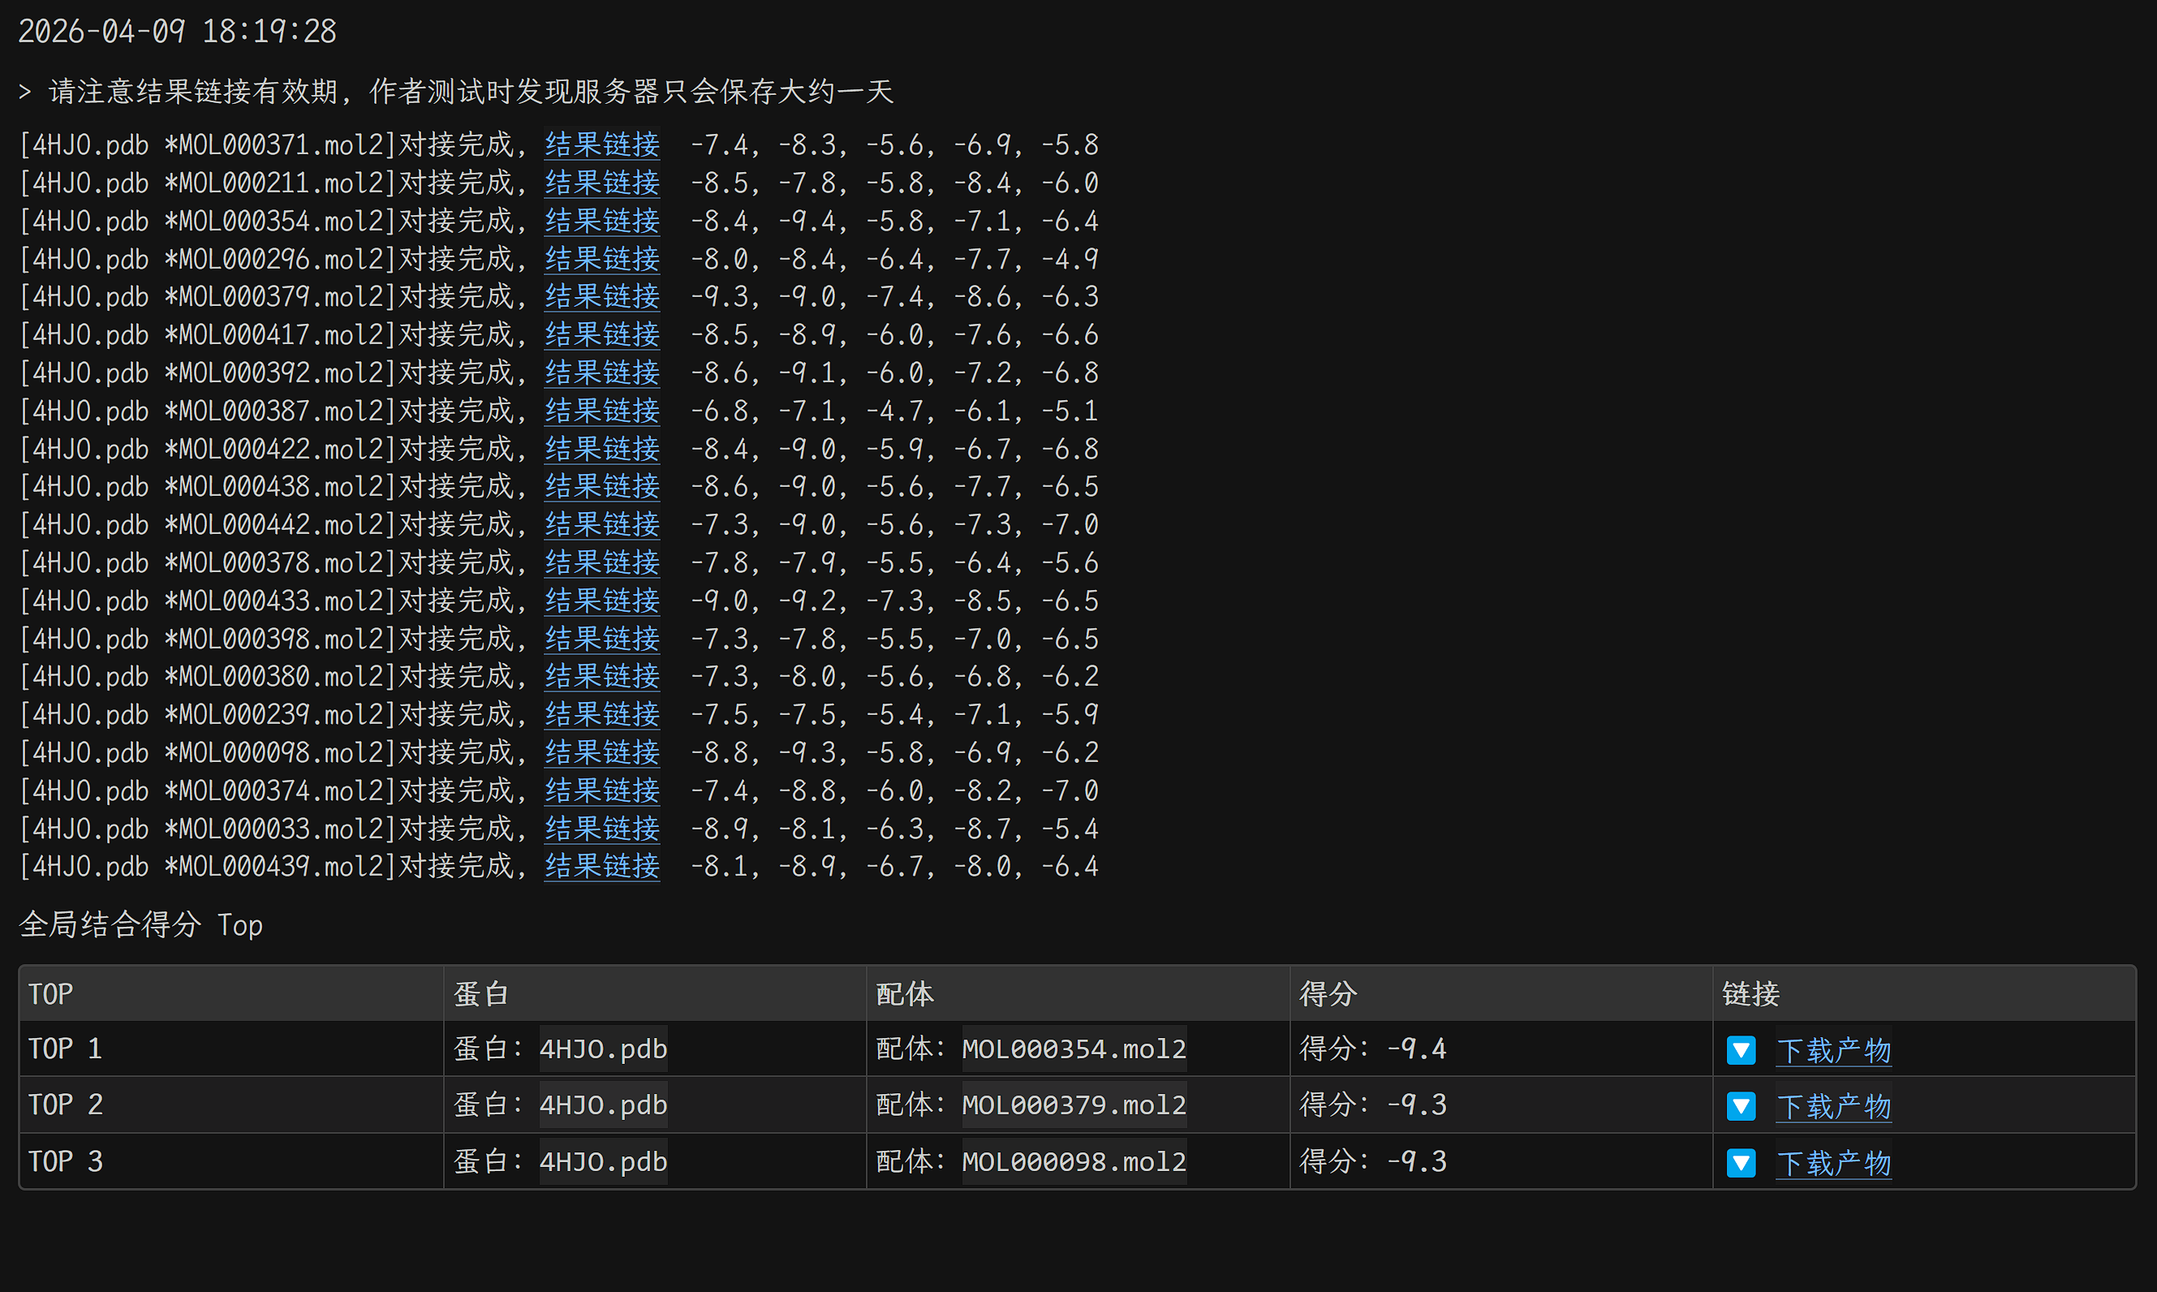
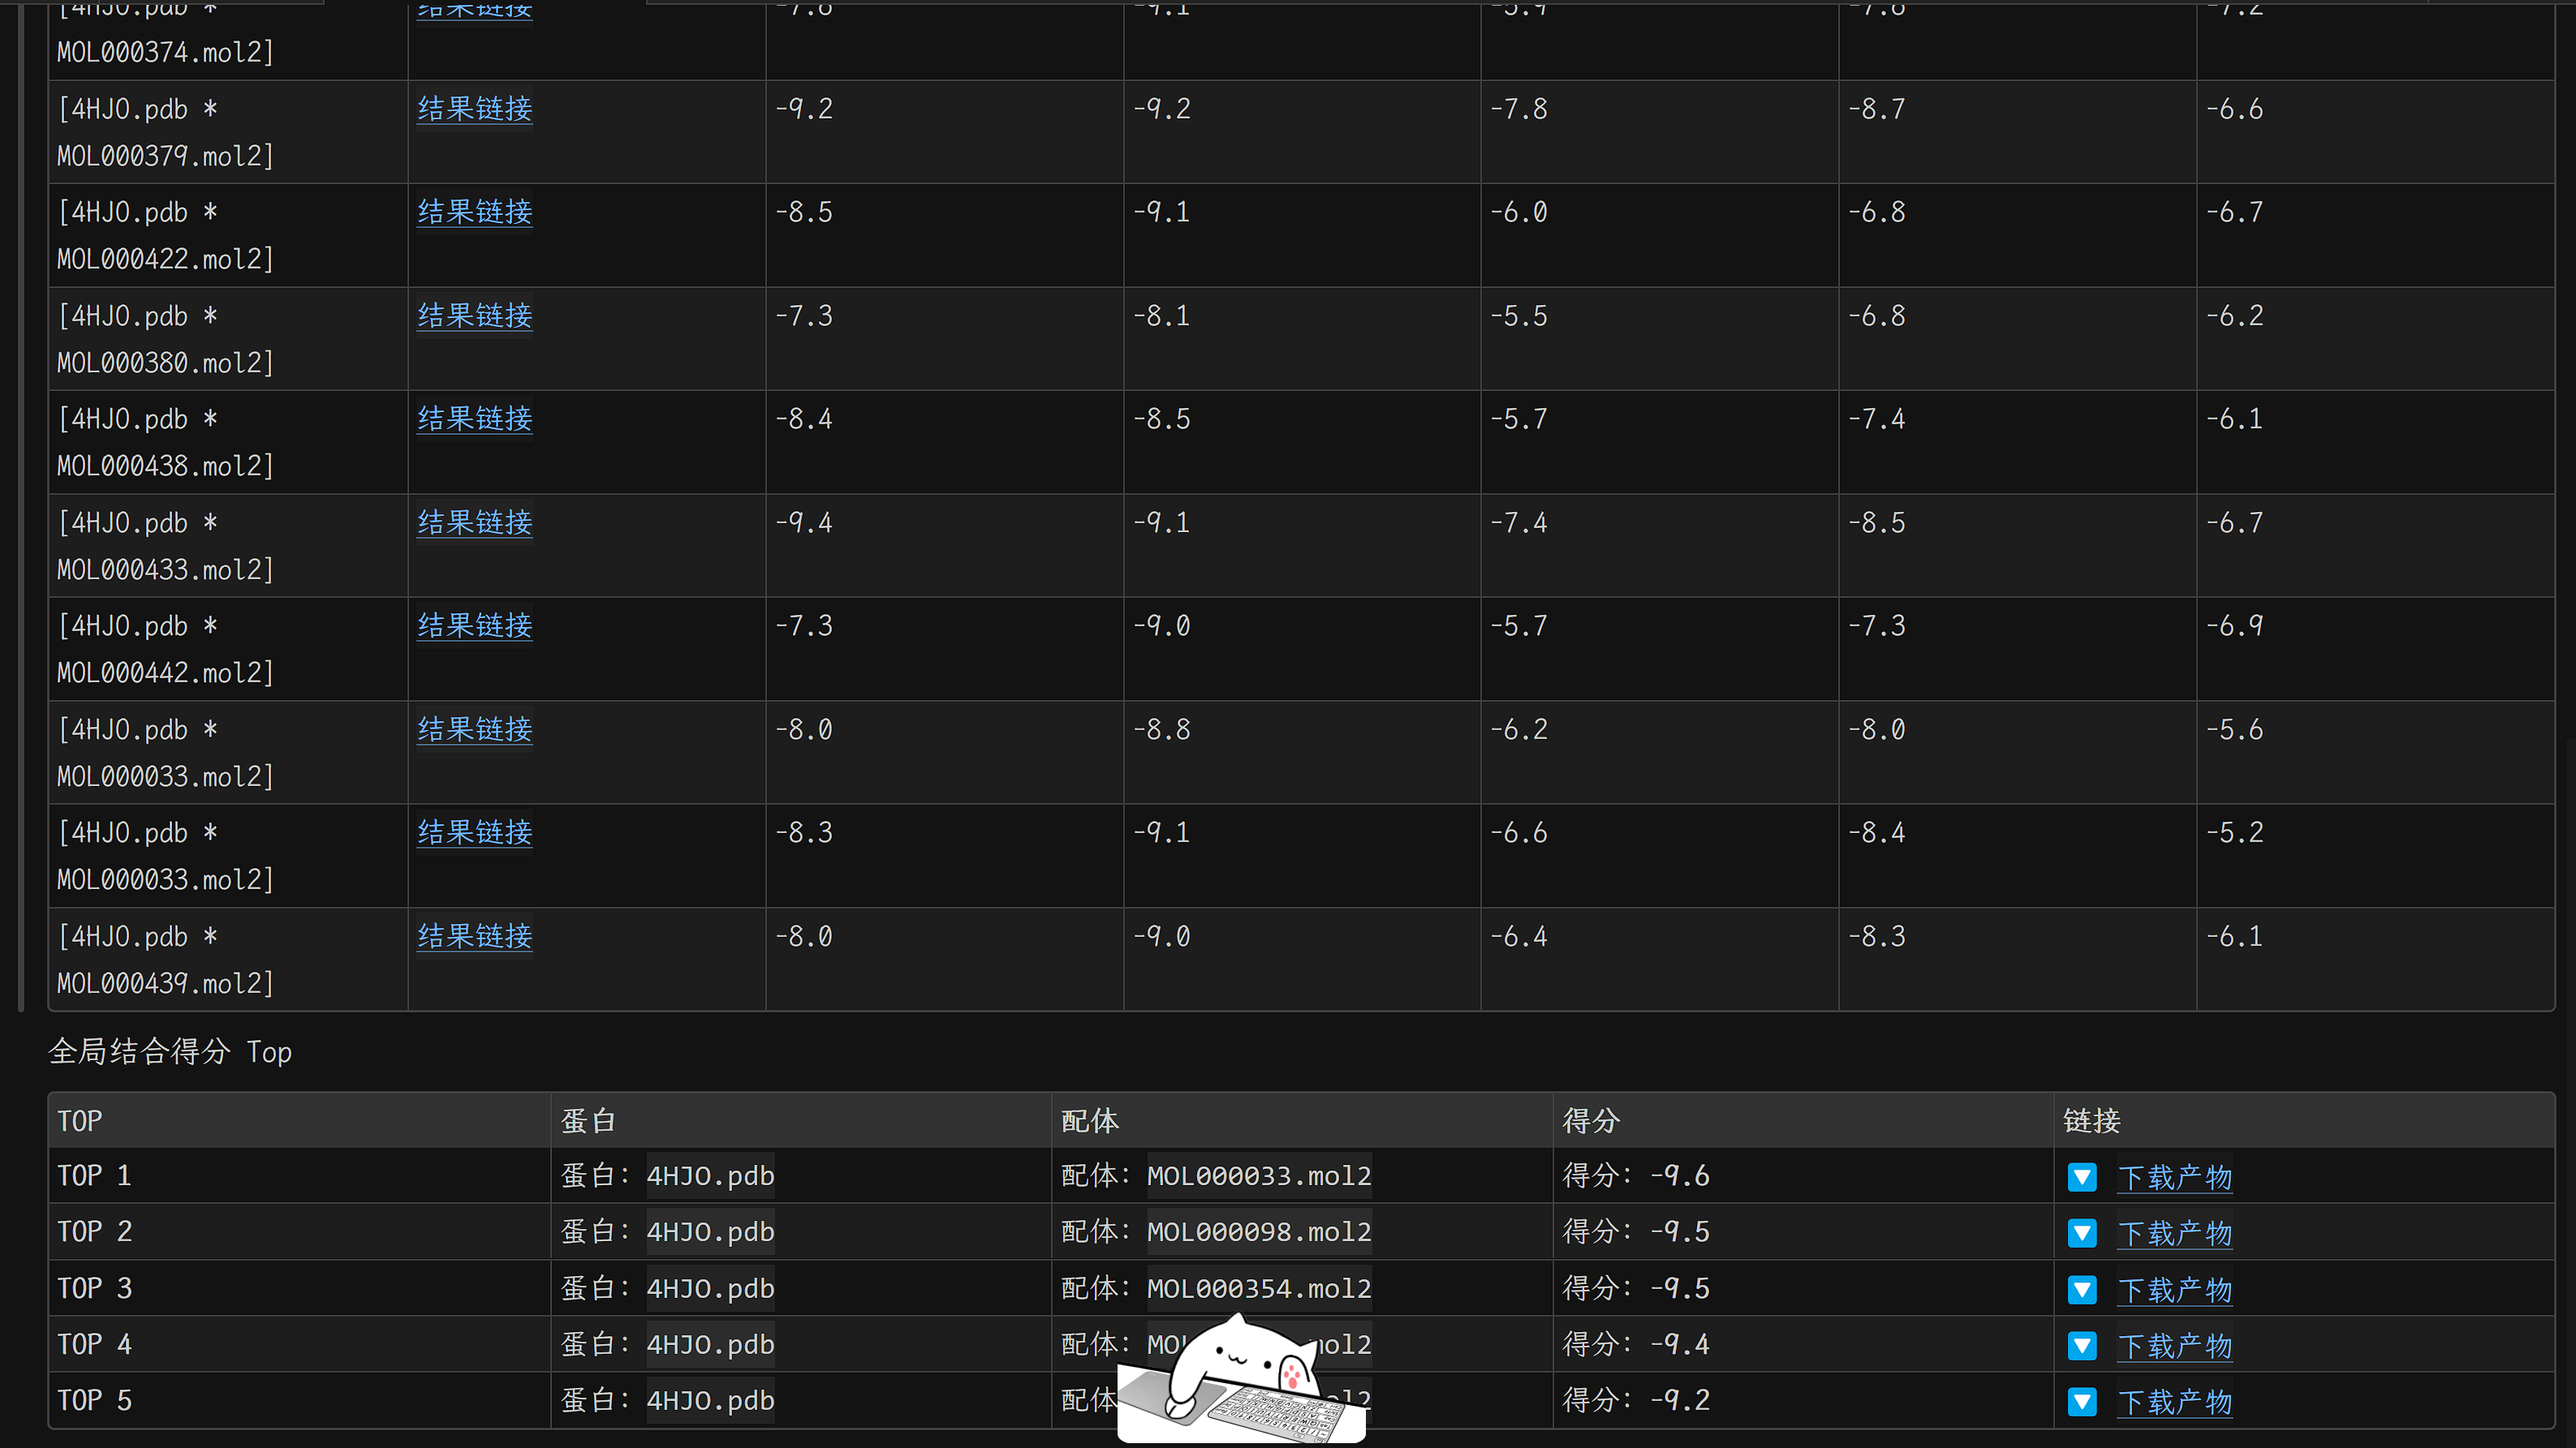
修改配体支持文件，可控文件处理

diff --git a/src/get_pl/main.rs b/src/get_pl/main.rs
@@ -2,7 +2,7 @@ use super::docking::run_docking_task;
 use super::io::{download_top_results, process_tasks};
 use super::models::*;
 use super::network::get_root_url;
-use super::utils::get_files_with_extension;
+use super::utils::{get_files_with_extension, get_files_with_extensions};
 use reqwest::Client;
 use std::sync::Arc;
 use tokio::sync::Semaphore;
@@ -13,8 +13,9 @@ pub async fn main() -> Result<(), Box<dyn std::error::Error>> {
     let config = Config::parse();
 
     let proteins = get_files_with_extension(&config.protein_dir, "pdb");
-    let ligands = get_files_with_extension(&config.ligand_dir, "mol2");
-
+    let mut ligands = get_files_with_extensions(&config.ligand_dir, &["mol2", "mol", "sdf", "pdb"]);
+    ligands.push(ligands[0].clone());
+    ligands.push(ligands[0].clone());
     let total_tasks = proteins.len() * ligands.len();
     println!(
         "共计 {} 个蛋白质和 {} 个配体，共 {} 个任务\n将选取并下载打分top {} 的对接产物",
@@ -24,6 +25,7 @@ pub async fn main() -> Result<(), Box<dyn std::error::Error>> {
         &config.top_size
     );
     println!("并发任务限制数量: {}", config.concurrency);
+    println!("下载后处理: {}", if config.process_downloaded { "on" } else { "off" });
 
     if total_tasks == 0 {
         println!("没有需要执行的任务，程序退出。");
@@ -58,7 +60,13 @@ pub async fn main() -> Result<(), Box<dyn std::error::Error>> {
     }
 
     let mut all_valid_scores = process_tasks(&mut join_set).await?;
-    download_top_results(&client, &mut all_valid_scores, config.top_size).await?;
+    download_top_results(
+        &client,
+        &mut all_valid_scores,
+        config.top_size,
+        config.process_downloaded,
+    )
+    .await?;
 
     println!("\n全部任务已处理完毕, 程序退出。");
     Ok(())

diff --git a/src/get_pl/io.rs b/src/get_pl/io.rs
@@ -1,5 +1,6 @@
 use super::models::DockingScore;
 use super::network::download_file;
+use super::utils::strip_docking_extension;
 use chrono::Local;
 use reqwest::Client;
 use std::path::Path;
@@ -72,6 +73,7 @@ pub async fn download_top_results(
     client: &Client,
     all_valid_scores: &mut Vec<DockingScore>,
     top_size: usize,
+    process_downloaded: bool,
 ) -> Result<(), Box<dyn std::error::Error>> {
     if all_valid_scores.is_empty() {
         println!("\n⚠ 所有的对接结果中都没有找到有效打分。");
@@ -118,8 +120,8 @@ pub async fn download_top_results(
             .write_all(format!("{}  \n", md_msg).as_bytes())
             .await?;
 
-        let safe_p = item.protein.trim_end_matches(".pdb");
-        let safe_l = item.ligand.trim_end_matches(".mol2");
+        let safe_p = strip_docking_extension(&item.protein);
+        let safe_l = strip_docking_extension(&item.ligand);
         let file_name = format!("TOP{}_{}_{}.pdb", rank, safe_p, safe_l);
         let dest_path = download_dir.join(&file_name);
 
@@ -127,8 +129,11 @@ pub async fn download_top_results(
         match download_file(client, &item.download_link, &dest_path).await {
             Ok(_) => {
                 println!("  ✅ 下载成功: {:?}", dest_path);
-                // 这里现在需要 await，因为函数变异步了
-                process_file_content(&dest_path).await?;
+                if process_downloaded {
+                    process_file_content(&dest_path).await?;
+                } else {
+                    println!("  ⏭ 已跳过下载文件后处理");
+                }
             }
             Err(e) => println!("  ❌ 下载失败: {}", e),
         }

diff --git a/src/get_pl/config.rs b/src/get_pl/config.rs
@@ -9,6 +9,7 @@ impl Config {
             concurrency: 5,
             top_size: 3,
             root_url: None,
+            process_downloaded: true,
         };
 
         let mut args = env::args().skip(1);
@@ -45,6 +46,19 @@ impl Config {
                         config.root_url = Some(val);
                     }
                 }
+                "-d" => {
+                    if let Some(val) = args.next() {
+                        let mode = val.to_lowercase();
+                        config.process_downloaded = match mode.as_str() {
+                            "on" => true,
+                            "off" => false,
+                            _ => {
+                                println!("下载后处理参数解析失败，默认使用 on");
+                                true
+                            }
+                        };
+                    }
+                }
                 "-h" | "--help" => {
                     println!("用法: cbdock [选项]");
                     println!("选项:");
@@ -53,6 +67,7 @@ impl Config {
                     println!("  -a <数字>   选取打分最高的数量");
                     println!("  -n <数字>   并发任务数量 (默认: 5)");
                     println!("  -u <URL>    指定 root_url，跳过网页自动抓取");
+                    println!("  -d <on|off> 下载后是否处理对接文件 (默认: on)");
                     std::process::exit(0);
                 }
                 _ => println!("警告: 未知参数 '{}'，可使用 -h 查看帮助", arg),

diff --git a/src/get_pl/utils.rs b/src/get_pl/utils.rs
@@ -10,3 +10,29 @@ pub fn get_files_with_extension(dir: &str, ext: &str) -> Vec<PathBuf> {
         .map(|e| e.path().to_path_buf())
         .collect()
 }
+
+/// 获取指定目录下匹配多个后缀名的所有文件路径
+pub fn get_files_with_extensions(dir: &str, exts: &[&str]) -> Vec<PathBuf> {
+    WalkDir::new(dir)
+        .into_iter()
+        .filter_map(|e| e.ok())
+        .filter(|e| {
+            e.path()
+                .extension()
+                .and_then(|ext| ext.to_str())
+                .map(|ext| exts.iter().any(|candidate| candidate == &ext))
+                .unwrap_or(false)
+        })
+        .map(|e| e.path().to_path_buf())
+        .collect()
+}
+
+/// 去掉对接文件名中的常见后缀，保留基础名称
+pub fn strip_docking_extension(file_name: &str) -> String {
+    for ext in [".pdb", ".sdf", ".mol2", ".mol"] {
+        if let Some(stripped) = file_name.strip_suffix(ext) {
+            return stripped.to_string();
+        }
+    }
+    file_name.to_string()
+}

diff --git a/src/get_pl/docking.rs b/src/get_pl/docking.rs
@@ -1,6 +1,7 @@
 use super::models::DockingScore;
 use super::network::{create_file_part, fetch_progress_text};
 use super::regex_utils::*;
+use super::utils::strip_docking_extension;
 use reqwest::{Client, multipart};
 use std::path::PathBuf;
 use std::sync::Arc;
@@ -161,8 +162,8 @@ async fn run_docking_task_single(
                 let conf_text = fetch_progress_text(&client, &conf_url).await?;
                 let mut scores = Vec::new();
 
-                let p_name_clean = p_name.trim_end_matches(".pdb");
-                let l_name_clean = l_name.trim_end_matches(".mol2");
+                let p_name_clean = strip_docking_extension(&p_name);
+                let l_name_clean = strip_docking_extension(&l_name);
 
                 for line in conf_text.lines().skip(1) {
                     let parts: Vec<&str> = line.split_whitespace().collect();

diff --git a/src/get_pl/models.rs b/src/get_pl/models.rs
@@ -13,4 +13,5 @@ pub struct Config {
     pub concurrency: usize,
     pub top_size: usize,
     pub root_url: Option<String>,
+    pub process_downloaded: bool,
 }

diff --git a/readme.md b/readme.md
@@ -1,9 +1,10 @@
 cb-dock2自动批量对接脚本，使用rust语言  
-在进行毕设时需要使用cbdock2进行大量的对接工作, 十分繁琐, 且一个个统计打分情况十分麻烦, 故写下了该脚本批量对接以及爬取数据. 服务器只会保留对接结果一天左右, 注意及时保存需要的数据, 否则需要重跑. 用法如下:  
+在进行毕设时需要使用cbdock2进行大量的对接工作, 十分繁琐, 且一个个统计打分情况十分麻烦, 故写下了该脚本批量对接以及爬取数据. 服务器只会保留对接结果一天左右, 注意及时保存需要的数据, 否则需要重跑. 建议线程数不要过大，发现当线程数过大时每一个对接速度都会变慢，可能对方服务器做了其它限制。默认处理下载的对接文件，否则不能被plip成功处理。用法如下:  
 | 选项 | 参数类型 | 介绍 |
 | :---: | :---: | :---: |
 | -p | <路径> | 蛋白质文件夹路径 (默认: ./蛋白质) |
 | -l | <路径> | 配体文件夹路径 (默认: ./配体) |
+| -d | on/off | 是否处理下载的对接文件 |
 | -a | <数字> | 选取打分最高的数量 |
 | -n | <数字> | 并发任务数量 (默认: 5) |
 | -u | <服务器url> | 指定基础url, eg: http://cao.labshare.cn:11080/cb-dock2, 否则使用默认服务器. 推荐事先访问cbdock2获取压力较轻的服务器url, 速度更快 |
@@ -11,5 +12,5 @@ cb-dock2自动批量对接脚本，使用rust语言
 
 这里对获取到的蛋白质-配体对接文件进行了修改, 否则cbdock2给出的对接pdb文件格式plip网页不认, 找不到结合位点, 有需要原始文件可以点击链接下载, 所有链接都输出在终端以及result.md文件里了. 作者也不知道什么原因, 也不想知道  
 ![示例图](./assets/use1.png)  
-![示例图](./assets/use2.png)  
+![示例图](./assets/use2.jpg)  
 ![示例图](./assets/result.png)
